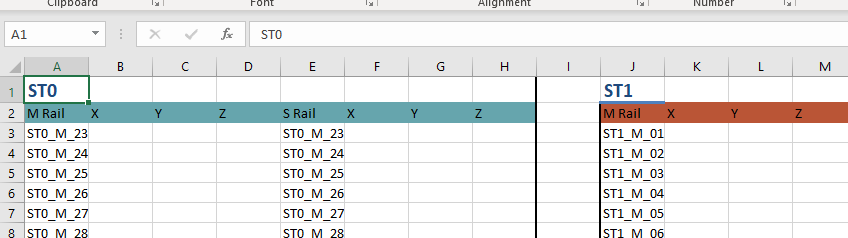
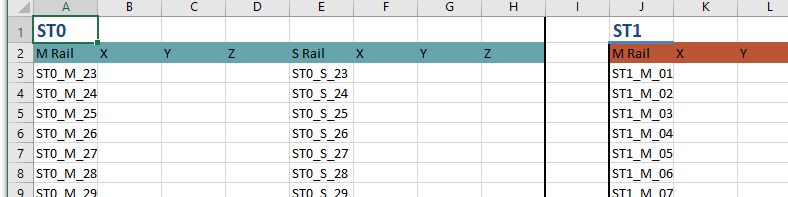
fixed a bug that was mis-labeling the measurements in the row measurement templates

diff --git a/generate_excel.py b/generate_excel.py
@@ -122,7 +122,7 @@ def write_expected_stations(stations):
         for index, m in enumerate(range(start, end)):
             y = index + 3
             s_c(ws, 9 * N + 1, y, M_RAIL_ROW_TEMPLATE.format(N, m), left_thick)
-            s_c(ws, 9 * N + 5, y, M_RAIL_ROW_TEMPLATE.format(N, m))
+            s_c(ws, 9 * N + 5, y, S_RAIL_ROW_TEMPLATE.format(N, m))
 
             s_c(ws, 9 * N + 8, y, '', right_thick)
 
